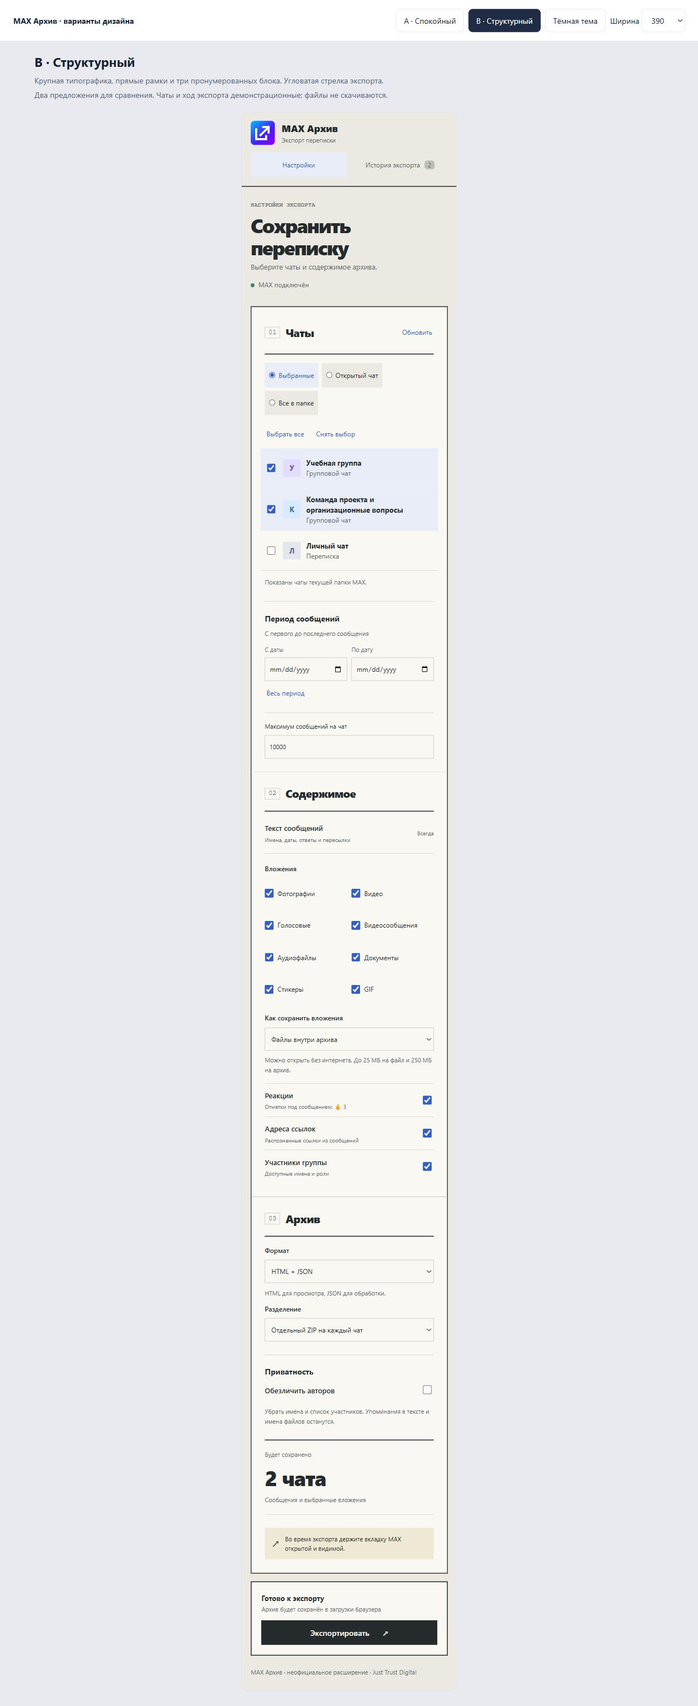
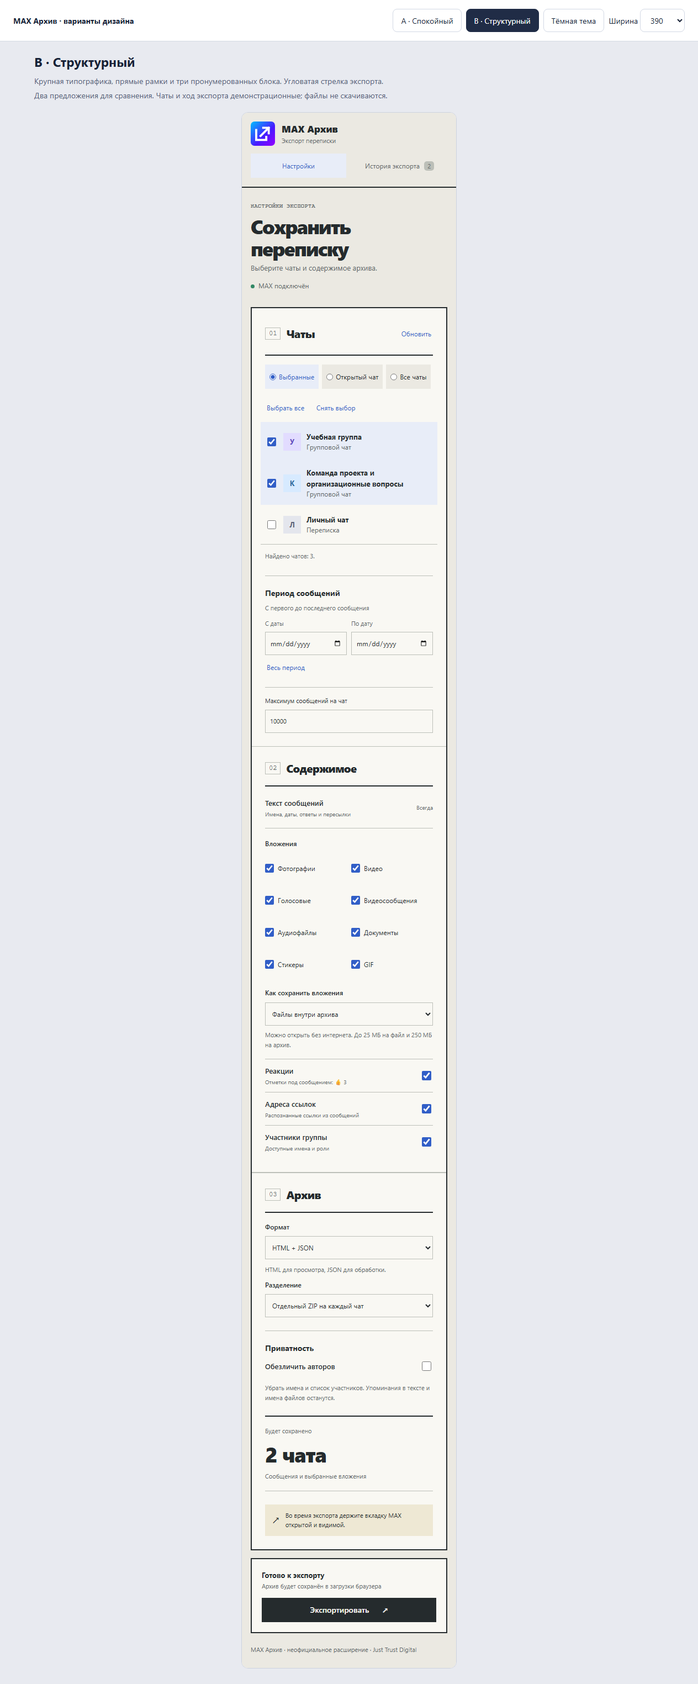
fix(copy): remove nonexistent MAX folder terminology

diff --git a/docs/design/screen.html b/docs/design/screen.html
@@ -1,7 +1,7 @@
 <!doctype html><html lang="ru"><head><meta charset="utf-8"><meta name="viewport" content="width=device-width,initial-scale=1"><title>MAX Архив — настройки экспорта</title><link rel="stylesheet" href="screen.css"></head><body>
 <header class="top"><a class="identity" href="index.html" aria-label="MAX Архив, варианты дизайна"><img id="logo" src="logo-a.svg" alt="" width="40" height="40"><span>MAX Архив<small>Экспорт переписки</small></span></a><nav aria-label="Разделы"><button id="settings-tab" aria-current="page">Настройки</button><button id="history-tab">История экспорта <span class="badge">2</span></button></nav><a class="jtd" href="https://justtrust.digital">Just Trust Digital ↗</a></header>
 <main><section class="hero"><div><p class="eyebrow">НАСТРОЙКИ ЭКСПОРТА</p><h1>Сохранить переписку</h1><p>Выберите чаты и содержимое архива.</p></div><div class="session"><span class="dot"></span>MAX подключён</div></section>
-<div id="settings"><div class="layout"><section class="panel chats"><div class="section-heading"><span class="number">01</span><h2>Чаты</h2><button class="link" id="refresh">Обновить</button></div><fieldset class="scope"><legend class="sr">Область экспорта</legend><label><input type="radio" name="scope" value="selected" checked>Выбранные</label><label><input type="radio" name="scope" value="current">Открытый чат</label><label><input type="radio" name="scope" value="all">Все в папке</label></fieldset><div class="chat-tools"><button class="link" id="all">Выбрать все</button><button class="link" id="none">Снять выбор</button></div><div class="chat-list"><label class="chat"><input type="checkbox" class="chat-check" checked><span class="avatar violet">У</span><span><strong>Учебная группа</strong><small>Групповой чат</small></span></label><label class="chat"><input type="checkbox" class="chat-check" checked><span class="avatar blue">К</span><span><strong>Команда проекта и организационные вопросы</strong><small>Групповой чат</small></span></label><label class="chat"><input type="checkbox" class="chat-check"><span class="avatar gray">Л</span><span><strong>Личный чат</strong><small>Переписка</small></span></label></div><p class="hint">Показаны чаты текущей папки MAX.</p><div class="period"><h3>Период сообщений</h3><p class="hint" id="period-text">С первого до последнего сообщения</p><div class="dates"><label>С даты<input id="from" type="date"></label><label>По дату<input id="to" type="date"></label></div><button class="link" id="clear-dates">Весь период</button></div><div class="limit"><label for="limit">Максимум сообщений на чат</label><input id="limit" type="number" min="1" value="10000"></div></section>
+<div id="settings"><div class="layout"><section class="panel chats"><div class="section-heading"><span class="number">01</span><h2>Чаты</h2><button class="link" id="refresh">Обновить</button></div><fieldset class="scope"><legend class="sr">Область экспорта</legend><label><input type="radio" name="scope" value="selected" checked>Выбранные</label><label><input type="radio" name="scope" value="current">Открытый чат</label><label><input type="radio" name="scope" value="all">Все чаты</label></fieldset><div class="chat-tools"><button class="link" id="all">Выбрать все</button><button class="link" id="none">Снять выбор</button></div><div class="chat-list"><label class="chat"><input type="checkbox" class="chat-check" checked><span class="avatar violet">У</span><span><strong>Учебная группа</strong><small>Групповой чат</small></span></label><label class="chat"><input type="checkbox" class="chat-check" checked><span class="avatar blue">К</span><span><strong>Команда проекта и организационные вопросы</strong><small>Групповой чат</small></span></label><label class="chat"><input type="checkbox" class="chat-check"><span class="avatar gray">Л</span><span><strong>Личный чат</strong><small>Переписка</small></span></label></div><p class="hint">Найдено чатов: 3.</p><div class="period"><h3>Период сообщений</h3><p class="hint" id="period-text">С первого до последнего сообщения</p><div class="dates"><label>С даты<input id="from" type="date"></label><label>По дату<input id="to" type="date"></label></div><button class="link" id="clear-dates">Весь период</button></div><div class="limit"><label for="limit">Максимум сообщений на чат</label><input id="limit" type="number" min="1" value="10000"></div></section>
 <section class="panel contents"><div class="section-heading"><span class="number">02</span><h2>Содержимое</h2></div><div class="row heading-row"><div><strong>Текст сообщений</strong><small>Имена, даты, ответы и пересылки</small></div><span class="included">Всегда</span></div><fieldset class="types"><legend>Вложения</legend><label><input type="checkbox" checked>Фотографии</label><label><input type="checkbox" checked>Видео</label><label><input type="checkbox" checked>Голосовые</label><label><input type="checkbox" checked>Видеосообщения</label><label><input type="checkbox" checked>Аудиофайлы</label><label><input type="checkbox" checked>Документы</label><label><input type="checkbox" checked>Стикеры</label><label><input type="checkbox" checked>GIF</label></fieldset><div class="storage"><label for="files">Как сохранить вложения</label><select id="files"><option>Файлы внутри архива</option><option>Только внешние ссылки</option></select><p class="hint" id="file-hint">Можно открыть без интернета. До 25 МБ на файл и 250 МБ на архив.</p></div><div class="extras"><label class="row"><span><strong>Реакции</strong><small>Отметки под сообщением: 👍 3</small></span><input type="checkbox" checked></label><label class="row"><span><strong>Адреса ссылок</strong><small>Распознанные ссылки из сообщений</small></span><input type="checkbox" checked></label><label class="row"><span><strong>Участники группы</strong><small>Доступные имена и роли</small></span><input id="members" type="checkbox" checked></label></div></section>
 <section class="panel output"><div class="section-heading"><span class="number">03</span><h2>Архив</h2></div><label class="field">Формат<select><option>HTML + JSON</option><option>HTML</option><option>JSON</option><option>CSV</option><option>TXT</option></select></label><p class="hint">HTML для просмотра, JSON для обработки.</p><label class="field">Разделение<select><option>Отдельный ZIP на каждый чат</option><option>Один ZIP для всех чатов</option></select></label><div class="privacy"><h3>Приватность</h3><label class="row"><span><strong>Обезличить авторов</strong></span><input type="checkbox" id="anonymous"></label><p class="hint">Убрать имена и список участников. Упоминания в тексте и имена файлов останутся.</p></div><div class="summary"><span>Будет сохранено</span><strong id="count">2 чата</strong><p>Сообщения и выбранные вложения</p></div><div class="notice"><span aria-hidden="true">↗</span><p>Во время экспорта держите вкладку MAX открытой и видимой.</p></div></section></div>
 <footer class="runbar"><div><strong id="run-caption">Готово к экспорту</strong><small>Архив будет сохранён в загрузки браузера</small></div><button class="primary" id="start">Экспортировать <span>↗</span></button><button id="stop" hidden>Остановить</button></footer><section id="progress" hidden aria-live="polite"><div class="progress-title"><strong id="stage">Чтение истории</strong><span id="stage-count">1 из 2 чатов</span></div><progress id="bar" max="100" value="0"></progress><p id="progress-detail">Учебная группа · найдено 30 сообщений</p></section></div>

diff --git a/fixtures/report-preview.js b/fixtures/report-preview.js
@@ -11,7 +11,7 @@
     context.fillStyle = '#dbeafe'; context.fillRect(0, 0, 440, 240);
     context.fillStyle = '#17345c'; context.font = 'bold 32px Arial'; context.fillText('ТЕСТОВЫЙ СНИМОК', 22, 125);
     values.maxArchiveReports = [{ report_id: id, product: 'maxexport', kind: imageFixture ? 'problem' : 'crash',
-      created_at: new Date().toISOString(), release: '0.3.17', environment: 'browser-extension',
+      created_at: new Date().toISOString(), release: '0.3.18', environment: 'browser-extension',
       component: 'export', error_code: 'INTERRUPTED_EXPORT',
       text: params.get('fixture') === 'long' ? 'Синтетическое описание ошибки. '.repeat(30) : (imageFixture ? 'Пример обращения со скриншотом' : ''),
       contact: '', screenshots: imageFixture ? Array.from({ length: params.get('fixture') === 'images-two' ? 2 : 1 }, () => ({ mime: 'image/webp', data: canvas.toDataURL('image/webp').split(',')[1] })) : [],
@@ -26,7 +26,7 @@
       async set(patch) { Object.assign(values, structuredClone(patch)); },
       async remove(key) { delete values[key]; }
     } },
-    runtime: { getManifest: () => ({ version: '0.3.17' }), getURL: path => '/' + path }
+    runtime: { getManifest: () => ({ version: '0.3.18' }), getURL: path => '/' + path }
   };
   const originalFetch = window.fetch.bind(window);
   window.fetch = (url, options) => {

diff --git a/export.js b/export.js
@@ -197,7 +197,7 @@
   async function refresh() {
     if (running) return;
     $('refresh').disabled = true;
-    note('Ищем чаты в текущей папке MAX…');
+    note('Ищем чаты MAX…');
     try { const result = await call('discover'); chats = result.chats; discoveryComplete = result.complete; renderChats(); note(`Найдено чатов: ${chats.length}.${discoveryComplete ? '' : ' Список загружен не полностью.'}`); }
     catch (error) { note(error.message, true); }
     finally { $('refresh').disabled = false; }

diff --git a/docs/development-history.md b/docs/development-history.md
@@ -30,7 +30,7 @@ Set-Location D:\DEV\MaxExport
 3. Укажите каталог `MaxExport`, откройте `https://web.max.ru/` и войдите в свой аккаунт.
 4. Откройте чат и нажмите значок расширения. **Экспортировать открытый чат** запускает сохранение с настройками по умолчанию; **Настройки и выбор чатов** открывает отдельную страницу.
 
-В расширенном режиме можно выбрать открытый чат, несколько чатов либо все найденные чаты текущей папки MAX. Есть форматы HTML + JSON, HTML, JSON, CSV и TXT; период, ссылки, реакции, адреса медиа, скачивание доступных вложений и предел сообщений. По умолчанию расширение скачивает отдельный ZIP для каждого чата; можно выбрать один общий ZIP. В каждом ZIP есть `report.json` с итогами, пропусками и версией расширения (`extensionVersion`). Поле `history` у чата содержит число попыток прокрутки, замен панели, общее `elapsedMs`, режим ожидания `pacing` и параметры последних 20 шагов без текста сообщений. В шагах записываются `waitMs`, `visibility` и состояние индикатора загрузки `loading`. При экспорте нескольких чатов отдельными архивами дополнительно скачивается `max-archive-summary.json`.
+В расширенном режиме можно выбрать текущий чат, несколько чатов либо все чаты. Есть форматы HTML + JSON, HTML, JSON, CSV и TXT; период, ссылки, реакции, адреса медиа, скачивание доступных вложений и предел сообщений. По умолчанию расширение скачивает отдельный ZIP для каждого чата; можно выбрать один общий ZIP. В каждом ZIP есть `report.json` с итогами, пропусками и версией расширения (`extensionVersion`). Поле `history` у чата содержит число попыток прокрутки, замен панели, общее `elapsedMs`, режим ожидания `pacing` и параметры последних 20 шагов без текста сообщений. В шагах записываются `waitMs`, `visibility` и состояние индикатора загрузки `loading`. При экспорте нескольких чатов отдельными архивами дополнительно скачивается `max-archive-summary.json`.
 
 В режиме **Выбранные чаты** кнопки **Выбрать всё** и **Снять выбор** меняют отметки сразу во всём найденном списке. Число выбранных чатов видно перед запуском экспорта.
 
@@ -58,7 +58,7 @@ Set-Location D:\DEV\MaxExport
 
 - Экспорт использует отображаемый интерфейс MAX. Перед экспортом расширение делает вкладку MAX активной, чтобы фоновые ограничения таймеров не замедляли прокрутку. После сохранения возвращается к странице отчёта. Если MAX скрыт, экспорт приостанавливается: на странице экспорта появляется немодальное предупреждение **Откройте вкладку MAX**, без кнопок. Переключитесь на MAX вручную; чтение продолжится автоматически. Кнопка **Остановить** остаётся в основной панели рядом со **Скачать ZIP**. Расширение пытается активировать вкладку и её окно; продолжает только после подтверждения видимости. Через две минуты ожидания экспорт останавливается с ошибкой; скрытая вкладка не считается концом истории. До окончания оставьте MAX активным; не закрывайте и не обновляйте его. Во время работы интерфейс может переключаться между чатами и помечать сообщения прочитанными.
 - При экспорте выбранных чатов расширение нажимает строку чата и проверяет заголовок, маршрут и выделение в доступном списке. В узком окне MAX убирает список из DOM после открытия переписки; тогда проверка использует заголовок и маршрут. Название берётся отдельно от подписи о числе участников в сети. Изменение предпросмотра сообщения или перерисовка строки не прерывают экспорт. Если пользователь переключил чат во время чтения, экспорт завершается ошибкой без сохранения сообщений другой переписки.
-- «Все найденные чаты» относится к **текущей папке** веб-версии. Если в узком окне открыт чат и список убран из DOM, поиск и переход к следующему чату сначала нажимают штатную кнопку возврата MAX. После поиска исходный чат открывается снова, чтобы режим «Открытый чат» оставался доступен. Если его нельзя однозначно найти по названию, расширение попросит открыть его вручную. Скрытый список не считается пустым: при невозможности возврата появится сообщение о недоступном списке. Для других папок, скрытых и архивных переписок переключите папку в MAX и повторите поиск. Полнота списка отражается в `discoveryComplete` внутри `report.json`.
+- «Все чаты» означает список, который удалось собрать из интерфейса MAX. Если в узком окне открыт чат и список убран из DOM, поиск и переход к следующему чату сначала нажимают штатную кнопку возврата MAX. После поиска исходный чат открывается снова, чтобы режим «Открытый чат» оставался доступен. Если его нельзя однозначно найти по названию, расширение попросит открыть его вручную. Скрытый список не считается пустым: при невозможности возврата появится сообщение о недоступном списке. Полнота списка отражается в `discoveryComplete` внутри `report.json`.
 - Если MAX меняет разметку или не показывает сообщение, вложение, автора либо точную дату в DOM, расширение не может восстановить эти данные. История загружается прокруткой, включая панели с отрицательным `scrollTop`; возможные разрывы и достижение лимитов отмечаются в `report.json`. Поле `complete` означает, что прокрутка открыла дополнительные сообщения и достигла края без обнаруженного разрыва, а не независимое подтверждение серверного числа сообщений. Если прокрутка не сдвигается или не открывает новые сообщения, отчёт содержит `scroll_stalled` либо `history_not_expanded` и `complete: false`.
 - При объединении соседних участков истории расширение сверяет порядок сообщений. Повторно показанный участок не добавляется в архив ещё раз; участок без подтверждённого пересечения отмечается как разрыв и не выдаётся за дополнительные сообщения.
 - Перед чтением истории расширение ждёт появления прокрутки до 3 секунд. Если MAX ещё не подготовил длинный чат, в отчёте будет `scroll_container_not_found` и `complete: false`; такой результат нельзя считать полной историей.

diff --git a/README.md b/README.md
@@ -1,14 +1,14 @@
 # MAX Архив
 
-Расширение для сохранения переписки из [веб-версии MAX](https://web.max.ru/) на компьютер. Один чат, выбранные переписки или все найденные чаты текущей папки MAX. Сообщения и выбранные типы вложений сохраняются в ZIP или папку в Загрузках.
+Расширение для сохранения переписки из [веб-версии MAX](https://web.max.ru/) на компьютер. Текущий чат, выбранные или все чаты. Сообщения и выбранные типы вложений сохраняются в ZIP или папку в Загрузках.
 
-Проект [Just Trust Digital](https://justtrust.digital). Тестовая версия **0.3.17**. Неофициальное расширение, не связано с разработчиками MAX.
+Проект [Just Trust Digital](https://justtrust.digital). Тестовая версия **0.3.18**. Неофициальное расширение, не связано с разработчиками MAX.
 
-[Скачать расширение](https://github.com/just-trust-digital/max-chat-archive/releases/tag/v0.3.17) · [Сообщить о проблеме](#сообщить-о-проблеме) · [Известные проблемы](KNOWN_ISSUES.md) · [Документация для разработки](docs/development.md)
+[Скачать расширение](https://github.com/just-trust-digital/max-chat-archive/releases/tag/v0.3.18) · [Сообщить о проблеме](#сообщить-о-проблеме) · [Известные проблемы](KNOWN_ISSUES.md) · [Документация для разработки](docs/development.md)
 
 ## Возможности
 
-- Экспорт открытого чата, нескольких выбранных чатов или всех найденных чатов текущей папки MAX.
+- Экспорт текущего чата, выбранных или всех чатов.
 - На выходе HTML с превью вложений, JSON, CSV и TXT. Отдельные архивы по чатам или один общий ZIP.
 - Выбор периода и типов вложений: фото, видео, голосовые, видеосообщения, аудио, стикеры, GIF и документы.
 - Список участников для групп с опциональным обезличиванием, даты, пересылки, реакции и ссылки.
@@ -65,7 +65,7 @@ npm run test:browser
 ## Ограничения
 
 - Расширение читает интерфейс веб-версии. Изменения MAX могут нарушить экспорт. Полнота истории не подтверждается отдельным запросом к серверу; проверяйте результат и отчёт.
-- «Все найденные чаты» означает текущую папку MAX. Для другой папки экспорт нужно запустить отдельно.
+- Список чатов собирается из интерфейса MAX. Если он загрузился не полностью, расширение сообщит об этом; проверьте результат и `report.json`.
 - Лимиты настраиваются: по умолчанию 25 МБ на файл и 250 МБ на архив или папку. Диапазоны — 1–2000 МБ на файл и 1–4000 МБ на архив/папку. МБ считается как 1024² байт. Недоступные файлы и неподдерживаемые типы остаются в отчёте. Проигрывание медиа зависит от кодеков браузера.
 - Экспорт может помечать сообщения прочитанными. Скрытые сообщения, недоступные вложения и скрытые контакты участников не восстанавливаются.
 - Сборка ZIP использует оперативную память; в режиме папки файлы скачиваются последовательно и общий ZIP не создаётся. Сохранённая копия позволяет получить уже собранную часть, но не продолжить чтение с места сбоя.

diff --git a/docs/design/README.md b/docs/design/README.md
@@ -11,7 +11,7 @@ Set-Location D:\DEV\MaxExport
 npm run test:browser
 ```
 
-Откройте http://127.0.0.1:8767/docs/design/index.html . Остановка - `Ctrl+C`, повторный запуск той же командой. После изменения списка маршрутов сервера его нужно перезапустить.
+Откройте http://127.0.0.1:8767/docs/design/index.html?utm_source=jtd_dev . Остановка - `Ctrl+C`, повторный запуск той же командой. После изменения списка маршрутов сервера его нужно перезапустить.
 
 Можно открыть `index.html` напрямую из этой папки; ресурсы локальные. Для воспроизводимой браузерной проверки используйте сервер. Переключатели A/B, темы и ширины находятся над макетом. Данные синтетические, соединения с MAX нет, файлы не скачиваются, формы ничего не отправляют, публикации сайта нет.
 
@@ -53,4 +53,4 @@ npm run test:browser
 
 22.10.2026 оба предложения проверены в настоящем браузере: две темы на ширинах iframe 390, 768, 1280 (не физическое устройство). Из-за рамки измеренная ширина содержимого отличается на один пиксель. Горизонтального переполнения нет, поля периода видны, высота iframe подстраивается под весь экран без внутреннего обрезания. Измерения сохранены в `layout-checks.json`.
 
-Проверены длинное название чата, пустой выбор с отключённым запуском, выбор всех, смена способа сохранения файлов, ввод даты, отключение участников при обезличивании, история, запуск и остановка демонстрации клавишей Enter. Проверены рендеры настроек, раскрытой истории и прогресса. Снимки двух основных предложений: [A](a-light-1280.png), [B](b-light-1280.png); дополнительные: [A на 768](a-light-768.png), [B на 390 в тёмной теме](b-dark-390.png), [история](history-light.png), [прогресс](progress-light.png). Результаты относятся только к макетам и не подтверждают работу экспорта MAX.
+Проверены длинное название чата, пустой выбор с отключённым запуском, выбор всех, смена способа сохранения файлов, ввод даты, отключение участников при обезличивании, история, запуск и остановка демонстрации клавишей Enter. Проверены рендеры настроек, раскрытой истории и прогресса. Снимки двух основных предложений: [A](a-light-1280.png), [B](b-light-1280.png); дополнительные: [A на 768](a-light-768.png), [B на 390 в тёмной теме](b-dark-390.png), [история](history-light.png), [прогресс](progress-light.png). Результаты относятся только к макетам и не подтверждают работу экспорта MAX. Снимки пересозданы 24.10.2026 после исправления текста выбора чатов; внутреннее содержимое не выходит за ширину макета 390, 768 и 1280 px.

diff --git a/docs/development.md b/docs/development.md
@@ -169,4 +169,6 @@ npm run test:browser
 
 Версия 0.3.17 проверена в Edge с синтетическими данными на ширинах 390, 768 и 1280 px в двух темах; [снимки и геометрия](reporting-preview/0.3.17/geometry.json). Проверены два выбранных снимка и экран благодарности на узком окне. Touch моделировал Edge, физический телефон не использовался. Синтетический WebP через публичный маршрут появился в событии GlitchTip как адрес; анонимный запрос получил 403, временная сессия владельца — 200 с тем же SHA-256. Четыре прежние карточки дополнены адресами без создания новых событий. Сам адрес в интерфейсе GlitchTip виден, но не становится активной ссылкой.
 
+В 0.3.18 исправлен статус поиска чатов и удалено ошибочное ограничение по папкам MAX из README, старых макетов и переносимого скилла. Прошли 110 тестов. Статус проверен в Chromium на ширинах 390, 768 и 1280 px в двух темах: нет горизонтального выхода или обрезания; снимки сохранены локально в `output/qa-0318` и не входят в пакет. Старые сравнительные макеты пересняты после обновления текста. Экспорт реального аккаунта для этого выпуска отдельно не проверялся.
+
 [Фактические снимки и геометрия Edge](reporting-preview/0.3.16/geometry.json): светлая и тёмная темы, 390/768/1280 px, пустая форма, выбранный снимок и длинный текст. Touch-проверка использовала эмуляцию Edge, не физический телефон. Синтетический WebP принят публичным маршрутом один раз при двух одинаковых POST; изменённые байты с тем же ID получили 409. Отдельный приватный запрос подтвердил одну запись inbox, совпадение SHA-256 и отсутствие байтов в событии GlitchTip. Реальная переписка MAX не использовалась.

diff --git a/docs/design-system.md b/docs/design-system.md
@@ -28,4 +28,4 @@ npm run test:browser
 http://127.0.0.1:8767/test/export-visibility.html?tab=7&fixture=recovery&theme=light&chats=populated&utm_source=jtd_dev . Остановка — Ctrl+C. Макет синтетический, ничего не отправляет и не публикует.
 
 
-Уточнения владельца: верхняя акцентная надпись убрана, заголовок — «Настройки экспорта», область — «Все чаты» (ограничение текущей папкой сохраняется в README), приватность — «Обезличенные контакты». Нет повторяющейся сводки периода. Обязательный текст показан неактивным чекбоксом с подсказкой по наведению/фокусу. Календарь собственный, русский, неделя с понедельника, обе темы и клавиатура. Лимиты файла и архива/папки — числа плюс синхронные ползунки.
+Уточнения владельца: верхняя акцентная надпись убрана, заголовок — «Настройки экспорта», область — «Все чаты», приватность — «Обезличенные контакты». Нет повторяющейся сводки периода. Обязательный текст показан неактивным чекбоксом с подсказкой по наведению/фокусу. Календарь собственный, русский, неделя с понедельника, обе темы и клавиатура. Лимиты файла и архива/папки — числа плюс синхронные ползунки.

diff --git a/skills/max-archive/references/archive.md b/skills/max-archive/references/archive.md
@@ -23,7 +23,7 @@ $report.chats | Select-Object messages, complete, reason, unknownDates, particip
 | Поле | Что проверить |
 | --- | --- |
 | `options` | Реальные период, форматы, выбор вложений и лимиты запуска |
-| `discoveryComplete` | Удалось ли собрать список чатов в текущей папке; `false` означает возможные пропуски, `null` — неприменимо/неизвестно |
+| `discoveryComplete` | Удалось ли собрать список чатов из интерфейса MAX; `false` означает возможные пропуски, `null` — неприменимо/неизвестно |
 | `chats[].messages` | Количество сохранённых сообщений чата; сравни с массивом JSON |
 | `chats[].complete`, `reason`, `history`, `gaps` | Полнота по наблюдениям расширения, причины ограничений и обнаруженные разрывы |
 | `chats[].unknownDates` | Сообщения с нераспознанной датой; могут остаться при фильтрации периода |

diff --git a/docs/releases/v0.3.18.md b/docs/releases/v0.3.18.md
@@ -1,0 +1,5 @@
+# MAX Архив 0.3.18 — тестовая версия
+
+Статус поиска чатов теперь показывает «Ищем чаты MAX…». Доступны текущий чат, выбранные или все чаты. Если список чатов загрузился не полностью, расширение сообщает об этом и отмечает результат в отчёте.
+
+Для обновления скачайте `max-archive-0.3.18-test.zip`, распакуйте папку `MaxExport` поверх установленной версии, перезагрузите расширение на `chrome://extensions` и обновите вкладку MAX. [Подробная инструкция](https://github.com/just-trust-digital/max-chat-archive#readme).

diff --git a/docs/releases/v0.3.9.md b/docs/releases/v0.3.9.md
@@ -8,7 +8,7 @@
 
 ### В этой версии
 
-- Открытый чат, выбранные переписки или все найденные чаты текущей папки.
+- Текущий чат, выбранные или все чаты.
 - HTML, JSON, CSV и TXT; выбор периода и типов вложений.
 - Имена авторов, даты, пересылки, доступные участники группы и обезличивание авторов.
 - Фото и доступные видео, голосовые и файлы внутри ZIP.
